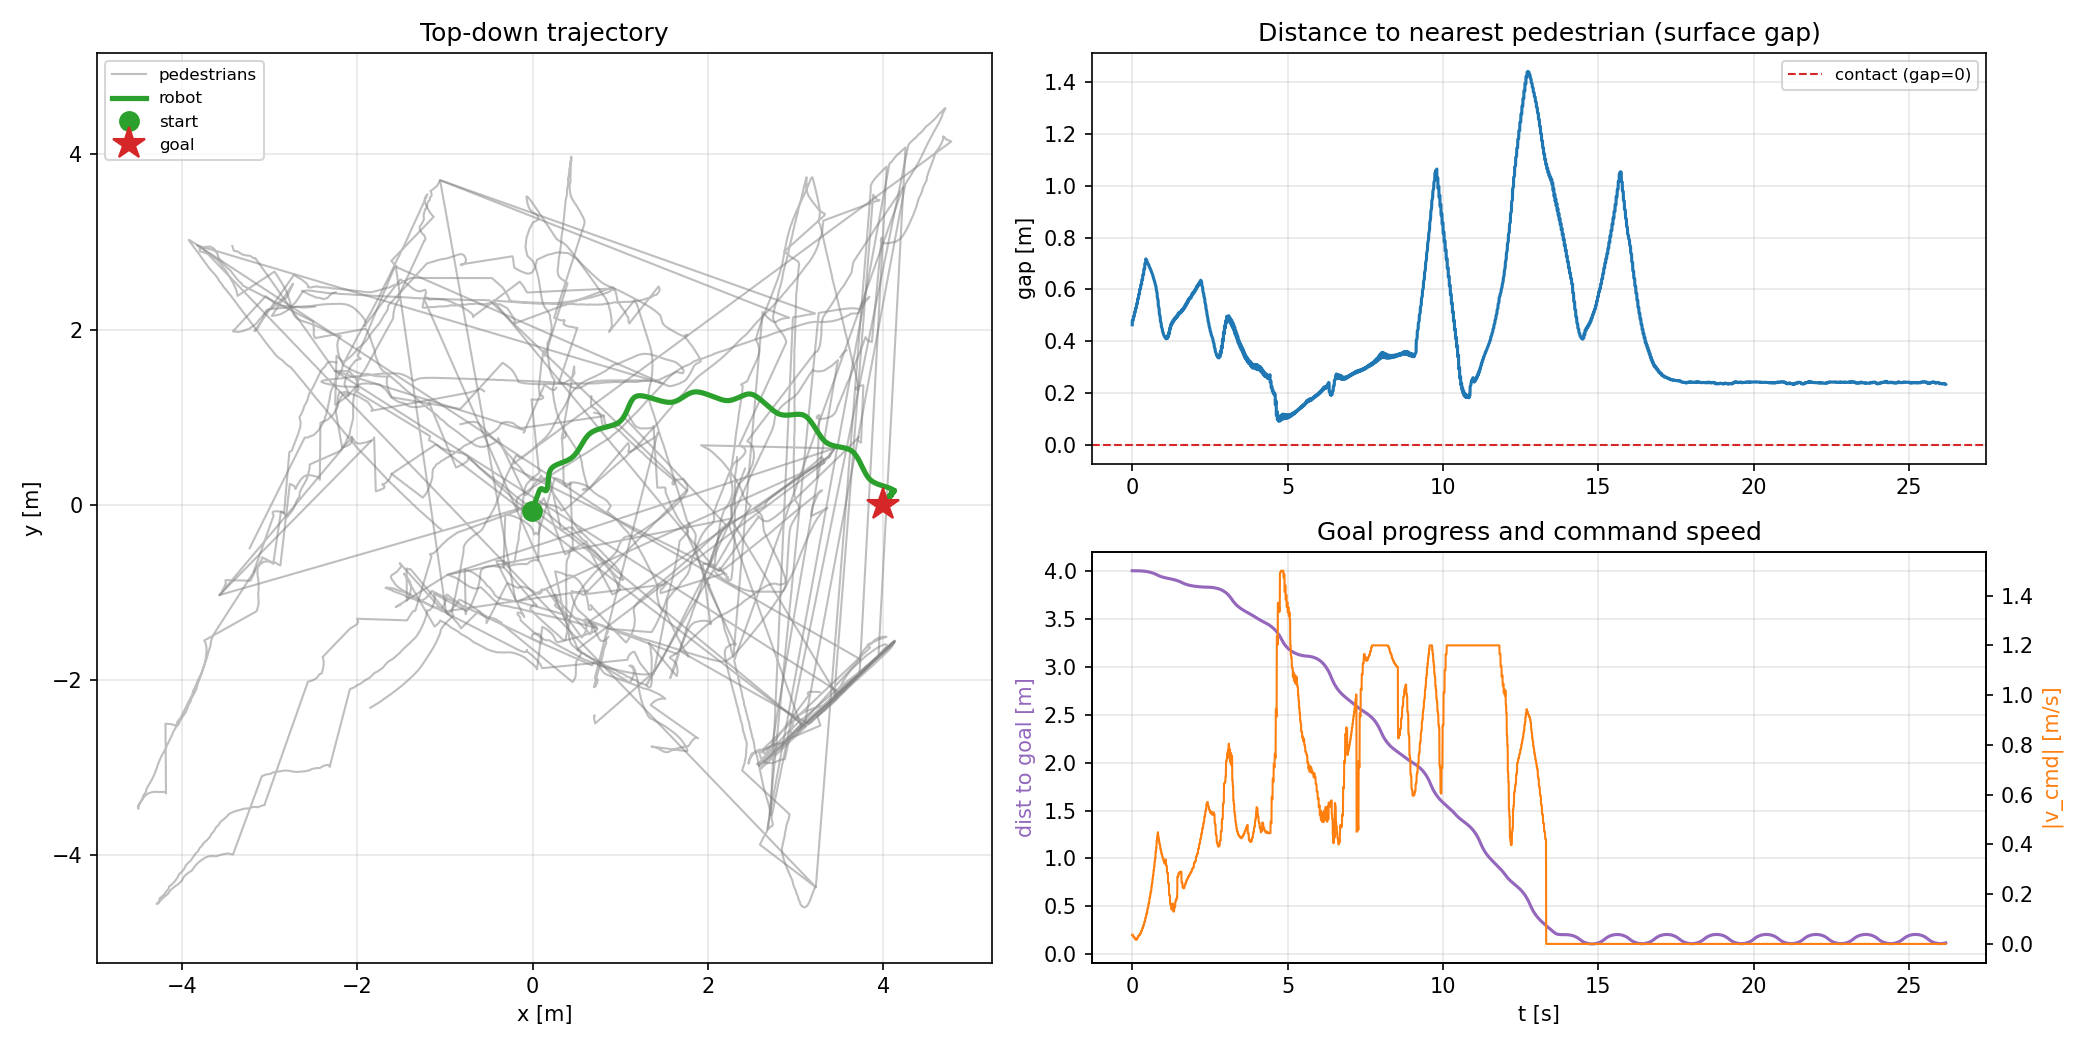
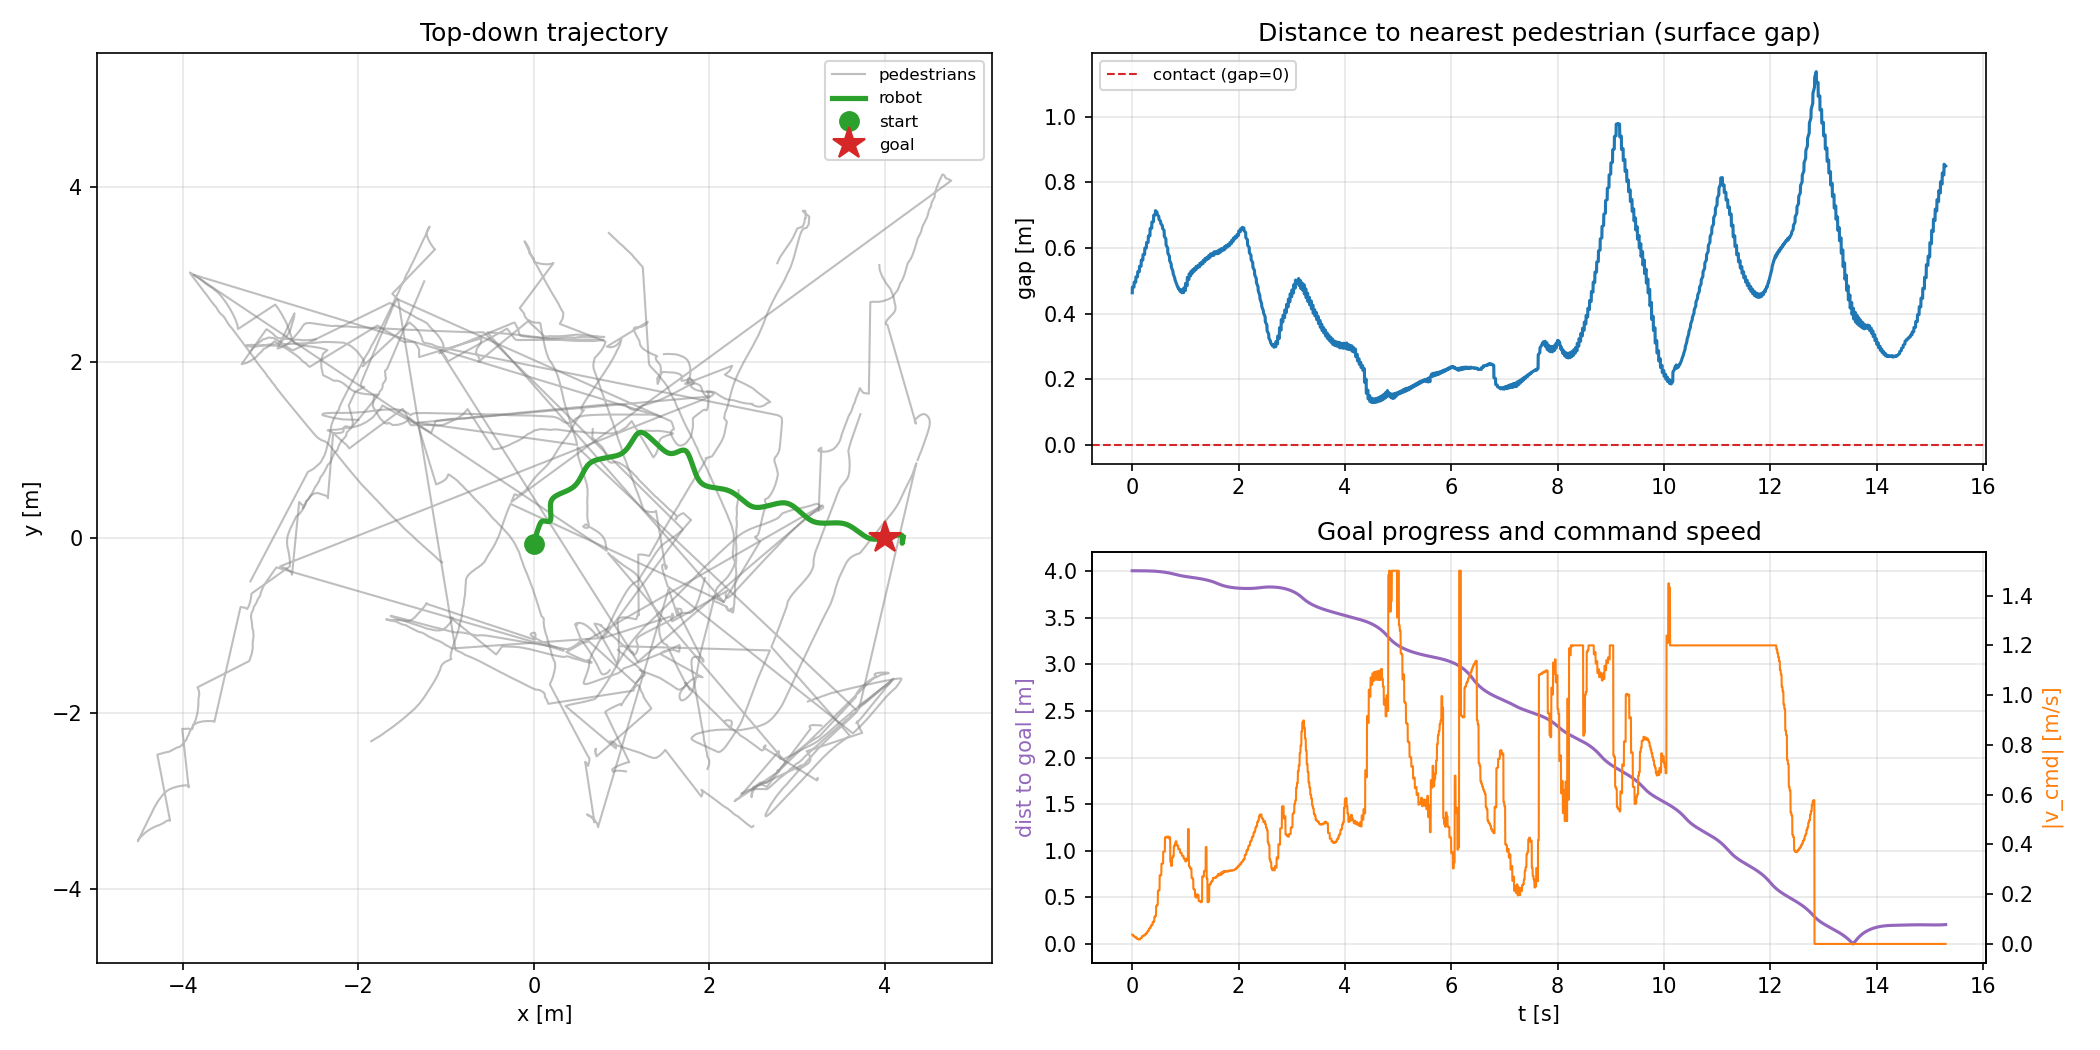
added front view toggle to save ressources

diff --git a/src/bullet_sims/bullet_sims/talos.py b/src/bullet_sims/bullet_sims/talos.py
@@ -11,13 +11,14 @@ from bullet_sims.tsid_wrapper import TSIDWrapper
 # robot configs
 import bullet_sims.talos_conf as conf
 from bullet_sims.footstep_planner import Side
+from orca_nav import debug_viz
 
 # ROS visualizations
 import rclpy
 from rclpy.node import Node
 from tf2_ros import TransformBroadcaster
 from nav_msgs.msg import Odometry
-from geometry_msgs.msg import WrenchStamped, TransformStamped
+from geometry_msgs.msg import WrenchStamped, TransformStamped, Point
 from visualization_msgs.msg import Marker, MarkerArray
 from sensor_msgs.msg import JointState, Image, CameraInfo
 from std_msgs.msg import Header
@@ -28,9 +29,10 @@ class Talos:
     combines wbc with pybullet, functions to read and set
     sensor values.
     """
-    def __init__(self, simulator):
+    def __init__(self, simulator, enable_fov_camera=True):
         self.conf = conf
         self.sim = simulator
+        self._fov_camera_enabled = enable_fov_camera
 
         # setup tsid wrapper for whole body controller
         # stack = stack of tasks in TSID framework
@@ -99,16 +101,17 @@ class Talos:
         self.depth_height = 480
         self.depth_fovy = 58.0  # vertical field of view in degrees
 
-        # Publishers for depth image and camera info
-        self.depth_pub = self._node.create_publisher(
-            Image, '/camera/depth/image_rect', 10
-        )
-        self.camera_info_pub = self._node.create_publisher(
-            CameraInfo, '/camera/depth/camera_info', 10
-        )
+        if self._fov_camera_enabled:
+            # Publishers for depth image and camera info
+            self.depth_pub = self._node.create_publisher(
+                Image, '/camera/depth/image_rect', 10
+            )
+            self.camera_info_pub = self._node.create_publisher(
+                CameraInfo, '/camera/depth/camera_info', 10
+            )
 
-        # Compute camera intrinsic matrix once at startup
-        self._compute_camera_intrinsics()
+            # Compute camera intrinsic matrix once at startup
+            self._compute_camera_intrinsics()
 
         # Mount the MuJoCo camera so it *coincides* with the URDF's existing
         # rgbd_optical_frame (published statically by robot_state_publisher as
@@ -128,7 +131,7 @@ class Talos:
         self.camera_pos = [0.066, 0.0, 0.1982]              # = URDF rgbd_link origin
         self.camera_orient = [0.5, -0.5, -0.5, 0.5]         # xyzw: cam frame == rgbd_optical_frame
 
-        if hasattr(self.sim, 'addCameraToLink'):
+        if self._fov_camera_enabled and hasattr(self.sim, 'addCameraToLink'):
             try:
                 self.sim.addCameraToLink(
                     self.camera_parent_link,
@@ -162,7 +165,9 @@ class Talos:
         self._percep_K = {}              # per-camera intrinsics
         percep_fovy, percep_w, percep_h = 90.0, 320, 240
         percep_radial = 0.15             # [m] mount offset along the view dir
-        if self._has_depth_cam:
+        # Independent of the FOV cam (self._has_depth_cam): perception must
+        # work even with the high-res front camera disabled.
+        if hasattr(self.sim, 'addCameraToLink'):
             try:
                 for k in range(4):
                     name = f'percep_cam_{k}'
@@ -181,10 +186,11 @@ class Talos:
                 print(f'[Talos] {len(self._percep_cams)} Rundumsicht-Kameras '
                       f'an {self.camera_parent_link} montiert')
             except Exception as e:
-                print(f'[Talos] Fehler: Rundumsicht-Kameras nicht verfügbar, '
-                      f'nutze nur die Frontkamera: {e}')
-                self._percep_cams = ['rgbd_depth_cam']
-                self._percep_K = {'rgbd_depth_cam': self.K}
+                print(f'[Talos] Fehler: Rundumsicht-Kameras nicht verfügbar: {e}')
+                if self._has_depth_cam:
+                    print('[Talos] nutze nur die Frontkamera als Fallback')
+                    self._percep_cams = ['rgbd_depth_cam']
+                    self._percep_K = {'rgbd_depth_cam': self.K}
 
         ########################################################################
         # 2D obstacle tracking (segmentation-based, for ORCA)
@@ -211,6 +217,13 @@ class Talos:
         self._zmp_pub = self._node.create_publisher(MarkerArray, 'zmp', 10)
         self._wrench_rf_pub = self._node.create_publisher(WrenchStamped, 'wrench_rf', 10)
         self._wrench_lf_pub = self._node.create_publisher(WrenchStamped, 'wrench_lf', 10)
+        # CoM trail for RViz -- the same violet path drawn in the MuJoCo viewer
+        # overlay (debug_viz), so the two views match. See publish_com_trail.
+        self._trail_pub = self._node.create_publisher(MarkerArray, 'com_trail', 10)
+        # Executed + next footsteps for RViz -- the same foot-shaped boxes drawn
+        # in the MuJoCo overlay (see publish_footsteps).
+        self._footstep_pub = self._node.create_publisher(
+            MarkerArray, 'footsteps', 10)
         # obstacle-estimate overlay for RViz (used by publish_obstacle_markers)
         self.marker_pub = self._node.create_publisher(MarkerArray, 'obstacle_markers', 10)
         # obstacle estimates as DATA for downstream planners (ORCA); the marker
@@ -320,6 +333,95 @@ class Talos:
     def com_trail(self):
         """Recorded CoM positions, oldest first (bounded, decimated)."""
         return list(self._com_trail)
+
+    def publish_com_trail(self):
+        """Publish the recorded CoM trail to RViz as one violet SPHERE_LIST, so
+        RViz shows the exact path drawn in the MuJoCo viewer overlay.
+
+        Same look as debug_viz (violet spheres, radius 0.02, along com_trail);
+        a SPHERE_LIST keeps it to a single marker regardless of trail length.
+        Published in the ``world`` frame like the other RViz markers.
+        """
+        marker = Marker()
+        marker.header.frame_id = "world"
+        marker.header.stamp = self._node.get_clock().now().to_msg()
+        marker.ns = "com_trail"
+        marker.id = 0
+        marker.type = Marker.SPHERE_LIST
+        marker.action = Marker.ADD
+        marker.pose.orientation.w = 1.0
+        # sphere diameter = 2 * radius (0.02 m in the MuJoCo overlay)
+        marker.scale.x = marker.scale.y = marker.scale.z = 0.04
+        marker.color.r, marker.color.g, marker.color.b, marker.color.a = \
+            0.55, 0.0, 0.75, 0.85
+        # project onto the ground (z=0.02), exactly like the MuJoCo overlay --
+        # the raw CoM z (~0.87 m) would float the spheres in the air.
+        for p in self._com_trail:
+            pt = Point()
+            pt.x, pt.y, pt.z = float(p[0]), float(p[1]), 0.02
+            marker.points.append(pt)
+        self._trail_pub.publish(MarkerArray(markers=[marker]))
+
+    def publish_footsteps(self, next_step=None):
+        """Publish executed + next footsteps to RViz as flat foot-shaped boxes,
+        matching the MuJoCo viewer overlay: orange = next planned step, fading
+        blue = left / red = right for the executed history (oldest = faintest).
+
+        The box geometry is shared with debug_viz.footstep_box so the two views
+        stay identical. Call once per tick like publish_com_trail.
+        """
+        now = self._node.get_clock().now().to_msg()
+        markers = MarkerArray()
+        # DELETEALL first: the history grows and marker ids shift each frame, so
+        # without this stale boxes from a longer previous frame would linger.
+        clear = Marker()
+        clear.header.frame_id = "world"
+        clear.header.stamp = now
+        clear.ns = "footsteps"
+        clear.action = Marker.DELETEALL
+        markers.markers.append(clear)
+
+        entries = []
+        hist = self.footstep_history
+        n = len(hist)
+        for age, fs in enumerate(reversed(hist)):
+            alpha = 0.2 + 0.55 * (1.0 - age / max(n, 1))
+            rgba = ((0.05, 0.25, 0.95, alpha) if fs.side == Side.LEFT
+                    else (0.85, 0.10, 0.05, alpha))
+            entries.append((fs, rgba))
+        if next_step is not None:
+            entries.append((next_step, (1.0, 0.5, 0.0, 0.9)))
+
+        for mid, (fs, rgba) in enumerate(entries):
+            markers.markers.append(self._footstep_marker(now, mid, fs, rgba))
+        self._footstep_pub.publish(markers)
+
+    def _footstep_marker(self, stamp, marker_id, footstep, rgba):
+        """One flat CUBE marker for a FootStep, using the same footprint sizing
+        and placement as debug_viz.footstep_box (so RViz matches MuJoCo)."""
+        center, half, R, rgba_arr = debug_viz.footstep_box(footstep, rgba=rgba)
+        quat = pin.Quaternion(np.asarray(R, dtype=float)).coeffs()  # [x,y,z,w]
+        m = Marker()
+        m.header.frame_id = "world"
+        m.header.stamp = stamp
+        m.ns = "footsteps"
+        m.id = marker_id
+        m.type = Marker.CUBE
+        m.action = Marker.ADD
+        m.pose.position.x = float(center[0])
+        m.pose.position.y = float(center[1])
+        m.pose.position.z = float(center[2])
+        m.pose.orientation.x = float(quat[0])
+        m.pose.orientation.y = float(quat[1])
+        m.pose.orientation.z = float(quat[2])
+        m.pose.orientation.w = float(quat[3])
+        # scale = full extents = 2 * half
+        m.scale.x = float(2.0 * half[0])
+        m.scale.y = float(2.0 * half[1])
+        m.scale.z = float(2.0 * half[2])
+        m.color.r, m.color.g, m.color.b, m.color.a = \
+            float(rgba_arr[0]), float(rgba_arr[1]), float(rgba_arr[2]), float(rgba_arr[3])
+        return m
 
     def publish(self):
         # Einheitlichen Zeitstempel generieren. Wird gespeichert, damit

diff --git a/src/bullet_sims/bullet_sims/walking.py b/src/bullet_sims/bullet_sims/walking.py
@@ -49,7 +49,7 @@ ARROW_SCALE = 3.0          # visual stretch so the slow v_cmd arrow is visible
 WALK_DURATION = 30.0       # [s] max walk time
 REACTIVE = True            # True: footsteps follow v_cmd; False: fixed WALK_MODE plan
 
-TURN_GAIN = 0.5            # fraction of the heading error turned per step (0 = fixed facing)
+TURN_GAIN = 1.0            # fraction of the heading error turned per step (0 = fixed facing)
 MAX_DYAW_DEG = 30.0        # [deg] max facing change per step
 ALTERNATE_YAW = True       # only the inside foot of a turn advances the heading, so the
                            # feet are never more than one dpsi apart in yaw and cannot
@@ -88,6 +88,10 @@ TOUCHDOWN_FZ = 475.0       # [N]
 #   ros2 run bullet_sims walking --ros-args -p scenario:=crossing -p pedestrian_sensor_data:=true )
 SCENARIO = "random"              # crowd scenario: head_on | crossing | circle | corridor | random
 PEDESTRIAN_SENSOR_DATA = True    # True: depth-camera perception; False: ground-truth states
+FOV_CAMERA = False        # True: also run the high-res front camera + point cloud
+                          # (depth_image_proc/RViz visualization only -- obstacle
+                          # perception always uses the 4 low-res surround cameras
+                          # regardless of this switch)
 
 
 ################################################################################
@@ -123,7 +127,7 @@ def _setup_crowd(simulator):
     return crowd
 
 
-def _create_robot(simulator):
+def _create_robot(simulator, enable_fov_camera=True):
     """Create the TSID wrapper and the MuJoCo Talos robot.
     Returns (tw, robot), or None if the TSID wrapper fails to build."""
     try:
@@ -131,7 +135,7 @@ def _create_robot(simulator):
     except Exception as e:
         print('Failed to create TSIDWrapper:', e)
         return None
-    robot = Talos(simulator)
+    robot = Talos(simulator, enable_fov_camera=enable_fov_camera)
     return tw, robot
 
 
@@ -965,6 +969,10 @@ def _run_loop(simulator, crowd, robot, mpc, interpolator, plan, ZMP_ref, YAW_ref
                                           rgba=(0.55, 0.0, 0.75, 0.85))
                    for p in robot.com_trail]
         debug_viz.draw_scene(simulator, arrows=arrows, points=points, boxes=boxes)
+        # mirror the MuJoCo CoM-trail path into RViz (same violet spheres)
+        robot.publish_com_trail()
+        # mirror the MuJoCo footstep boxes into RViz (orange next, blue/red history)
+        robot.publish_footsteps(next_step)
 
         # --- step transition: pick/plan the next footstep, build swing spline ---
         if i >= 0 and i % conf.no_sim_per_step == 0:
@@ -1174,16 +1182,19 @@ def _read_runtime_params():
         ros2 run bullet_sims walking --ros-args \
             -p scenario:=crossing -p pedestrian_sensor_data:=true
     """
-    global SCENARIO, PEDESTRIAN_SENSOR_DATA
+    global SCENARIO, PEDESTRIAN_SENSOR_DATA, FOV_CAMERA
     node = rclpy.create_node("walking_params")
     node.declare_parameter("scenario", SCENARIO)
     node.declare_parameter("pedestrian_sensor_data", PEDESTRIAN_SENSOR_DATA)
+    node.declare_parameter("fov_camera", FOV_CAMERA)
     SCENARIO = node.get_parameter("scenario").get_parameter_value().string_value
     PEDESTRIAN_SENSOR_DATA = node.get_parameter(
         "pedestrian_sensor_data").get_parameter_value().bool_value
+    FOV_CAMERA = node.get_parameter("fov_camera").get_parameter_value().bool_value
     node.destroy_node()
     print(f"[walking] scenario='{SCENARIO}'  "
-          f"pedestrian_sensor_data={PEDESTRIAN_SENSOR_DATA}")
+          f"pedestrian_sensor_data={PEDESTRIAN_SENSOR_DATA}  "
+          f"fov_camera={FOV_CAMERA}")
 
 
 def main():
@@ -1204,7 +1215,7 @@ def main():
     # crowd must be created before the robot (see _setup_crowd)
     crowd = _setup_crowd(simulator)
 
-    created = _create_robot(simulator)
+    created = _create_robot(simulator, enable_fov_camera=FOV_CAMERA)
     if created is None:
         return
     tw, robot = created

diff --git a/src/bullet_sims/launch/walk_and_perceive.launch.py b/src/bullet_sims/launch/walk_and_perceive.launch.py
@@ -7,20 +7,29 @@ Starts:
 """
 
 from launch import LaunchDescription
-from launch.actions import IncludeLaunchDescription
+from launch.actions import DeclareLaunchArgument, IncludeLaunchDescription
+from launch.conditions import IfCondition
+from launch.substitutions import LaunchConfiguration
 from launch_ros.actions import Node
 from launch_ros.substitutions import FindPackageShare
 from launch.substitutions import PathJoinSubstitution
 
 
 def generate_launch_description():
-    # Depth image processing (converts depth image to XYZ point cloud)
+    # High-res front camera + point cloud: off by default (RViz visualization
+    # only, not used by obstacle perception -- see walking.py's FOV_CAMERA).
+    fov_camera = LaunchConfiguration('fov_camera')
+    declare_fov_camera = DeclareLaunchArgument('fov_camera', default_value='false')
+
+    # Depth image processing (converts depth image to XYZ point cloud). Only
+    # useful while the walking node's front camera is enabled.
     depth_image_proc_launch = IncludeLaunchDescription(
         PathJoinSubstitution([
             FindPackageShare('bullet_sims'),
             'launch',
             'depth_image_proc.launch.py',
-        ])
+        ]),
+        condition=IfCondition(fov_camera),
     )
 
     # RViz visualization
@@ -38,9 +47,11 @@ def generate_launch_description():
         executable='walking',
         output='screen',
         name='walking',
+        parameters=[{'fov_camera': fov_camera}],
     )
 
     return LaunchDescription([
+        declare_fov_camera,
         walking_node,
         depth_image_proc_launch,
         ros_visuals_launch,
